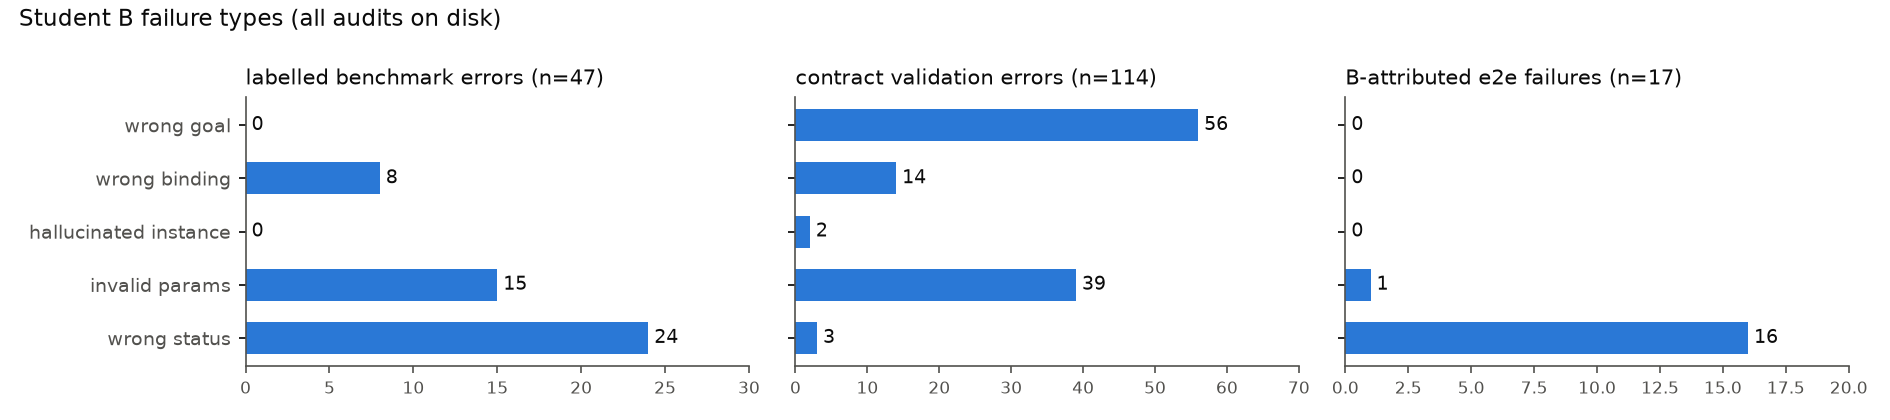
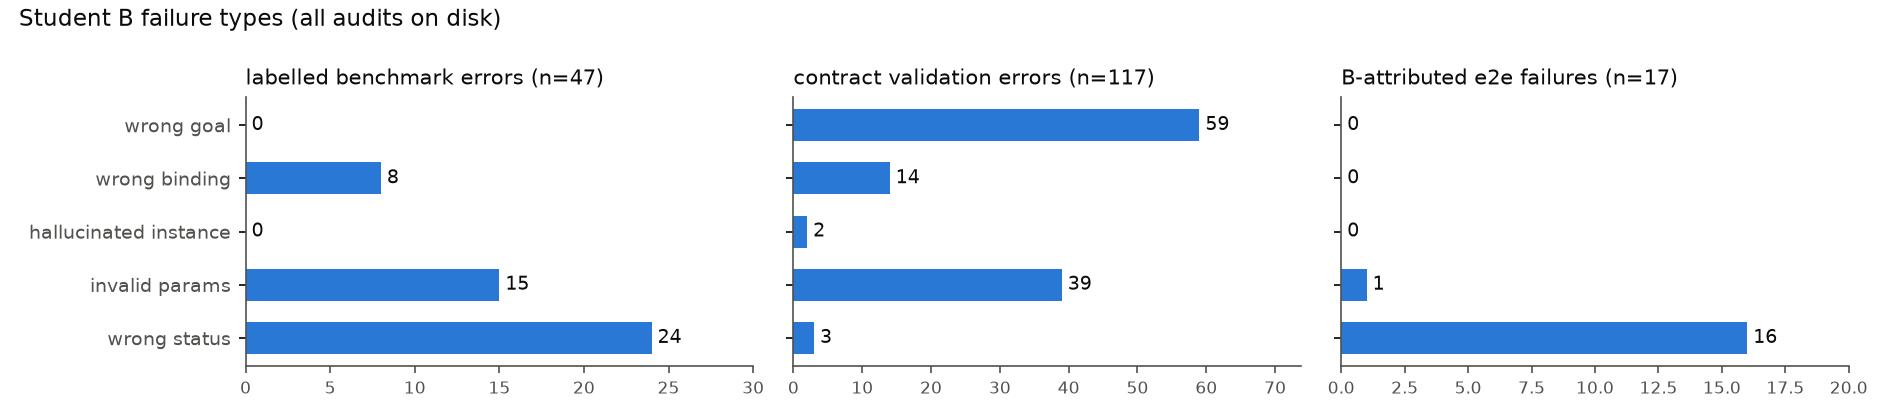
[chore] final2 6.6: episode endings per orchestrator budget (0 live); 6.4 prompt diet kept as a pending patch; 6.2 refreshed with the final run
eval/orchestrator_budgets.py classifies every e2e record on disk by how it
ended (success / max_search / max_replans / max_total_plans / max_clarify /
refused) with the oracle's placed count per ending. The proposal is in
REPORT section 14 (limits unchanged tonight).
docs/night_run/pending/final2_6.4_prompt_diet.patch: B planning input without
the output-schema copy, pixel boxes, confidences, per-instance frame ids, <= 8
instances by relevance (prompt qwen-b-v6; unit tests pass). Not merged: its
32-case gate (32 calls) did not fit the 2,000-call cap.

Claude-Session: https://claude.ai/code/session_01YYnMkvnn9Wn73mvz2C1J3C

diff --git a/eval/orchestrator_budgets.py b/eval/orchestrator_budgets.py
@@ -1,0 +1,87 @@
+"""Final2 6.6: how e2e episodes ended, per orchestrator budget (0 live calls).
+
+    python -m eval.orchestrator_budgets [--runs runs/final runs/final2]
+
+Every trial_record.json under the given roots (the newest record per run
+root and trial) is classified by how it ended:
+  success          CLAIMED_SUCCESS
+  max_search       SEARCH_EXHAUSTED (max_search_attempts)
+  max_replans      FAILED / LIMIT_EXCEEDED after the replan budget (no 'limit' event)
+  max_total_plans  LIMIT_EXCEEDED with limit=max_total_plans
+  max_total_actions LIMIT_EXCEEDED with limit=max_total_actions
+  max_clarify      CLARIFICATION_EXHAUSTED
+  refused / error / other
+It also reports, per ending, how many episodes had the object in the region
+by the oracle (actual_success) and the plans / actions used, which is what a
+new limit would trade against.
+"""
+from __future__ import annotations
+
+import argparse
+import json
+import pathlib
+import statistics
+from collections import defaultdict
+
+
+def ending(record: dict) -> str:
+    out = record.get("outcome")
+    events = record.get("events") or []
+    limits = [e.get("which") for e in events if e.get("type") == "limit"]
+    if out == "CLAIMED_SUCCESS":
+        return "success"
+    if out == "SEARCH_EXHAUSTED":
+        return "max_search"
+    if out == "CLARIFICATION_EXHAUSTED":
+        return "max_clarify"
+    if out == "LIMIT_EXCEEDED" and limits:
+        return limits[-1]
+    if out in ("FAILED", "LIMIT_EXCEEDED"):
+        return "max_replans"
+    if out == "REFUSED":
+        return "refused"
+    return "error" if out in ("ERROR", "TIMEOUT", "INTERRUPTED") else "other"
+
+
+def collect(roots):
+    latest = {}
+    for root in roots:
+        for path in pathlib.Path(root).rglob("trial_record.json"):
+            run = next((p for p in path.parents if p.parent.name in ("final", "final2")), path.parent)
+            key = (str(run), path.parent.name)
+            if key not in latest or path.stat().st_mtime > latest[key].stat().st_mtime:
+                latest[key] = path
+    return [json.loads(p.read_text()) for p in latest.values()]
+
+
+def table(records):
+    rows = defaultdict(list)
+    for r in records:
+        ev = r.get("events") or []
+        rows[ending(r)].append((bool(r.get("actual_success")),
+                                sum(e.get("type") == "plan" for e in ev),
+                                sum(e.get("type") == "action" for e in ev)))
+    order = ["success", "max_search", "max_replans", "max_total_plans", "max_total_actions",
+             "max_clarify", "refused", "error", "other"]
+    lines = ["| ending | episodes | object placed (oracle) | plans median / max | actions median / max |",
+             "|---|---|---|---|---|"]
+    for k in order:
+        if k not in rows:
+            continue
+        v = rows[k]
+        plans, actions = [x[1] for x in v], [x[2] for x in v]
+        lines.append(f"| {k} | {len(v)} | {sum(x[0] for x in v)} | {statistics.median(plans):g} / {max(plans)} "
+                     f"| {statistics.median(actions):g} / {max(actions)} |")
+    return "\n".join(lines), rows
+
+
+def main(argv=None):
+    ap = argparse.ArgumentParser(description=__doc__.splitlines()[0])
+    ap.add_argument("--runs", nargs="+", default=["runs/final", "runs/final2"])
+    a = ap.parse_args(argv)
+    text, _ = table(collect(a.runs))
+    print(text)
+
+
+if __name__ == "__main__":
+    main()

diff --git a/tests/test_orchestrator_budgets.py b/tests/test_orchestrator_budgets.py
@@ -1,0 +1,17 @@
+"""Final2 6.6: episode endings per orchestrator budget."""
+from eval.orchestrator_budgets import ending
+
+
+def rec(outcome, *limits):
+    return {"outcome": outcome, "events": [{"type": "limit", "which": w} for w in limits]}
+
+
+def test_endings():
+    assert ending(rec("CLAIMED_SUCCESS")) == "success"
+    assert ending(rec("SEARCH_EXHAUSTED")) == "max_search"
+    assert ending(rec("LIMIT_EXCEEDED", "max_total_plans")) == "max_total_plans"
+    assert ending(rec("LIMIT_EXCEEDED")) == "max_replans"
+    assert ending(rec("FAILED")) == "max_replans"
+    assert ending(rec("CLARIFICATION_EXHAUSTED")) == "max_clarify"
+    assert ending(rec("REFUSED")) == "refused"
+    assert ending(rec("ERROR")) == "error"

diff --git a/docs/validation/B_FAILURE_TYPES.md b/docs/validation/B_FAILURE_TYPES.md
@@ -4,9 +4,9 @@ Generated by `python -m eval.b_failure_types` from every audit under `runs/` (0 
 
 | type | labelled benchmark errors | contract validation errors | B-attributed e2e failures |
 |---|---|---|---|
-| WRONG_GOAL | 0 | 56 | 0 |
+| WRONG_GOAL | 0 | 59 | 0 |
 | WRONG_BINDING | 8 | 14 | 0 |
 | HALLUCINATED_INSTANCE | 0 | 2 | 0 |
 | INVALID_PARAMS | 15 | 39 | 1 |
 | WRONG_STATUS | 24 | 3 | 16 |
-| total | 47 | 114 | 17 |
+| total | 47 | 117 | 17 |
